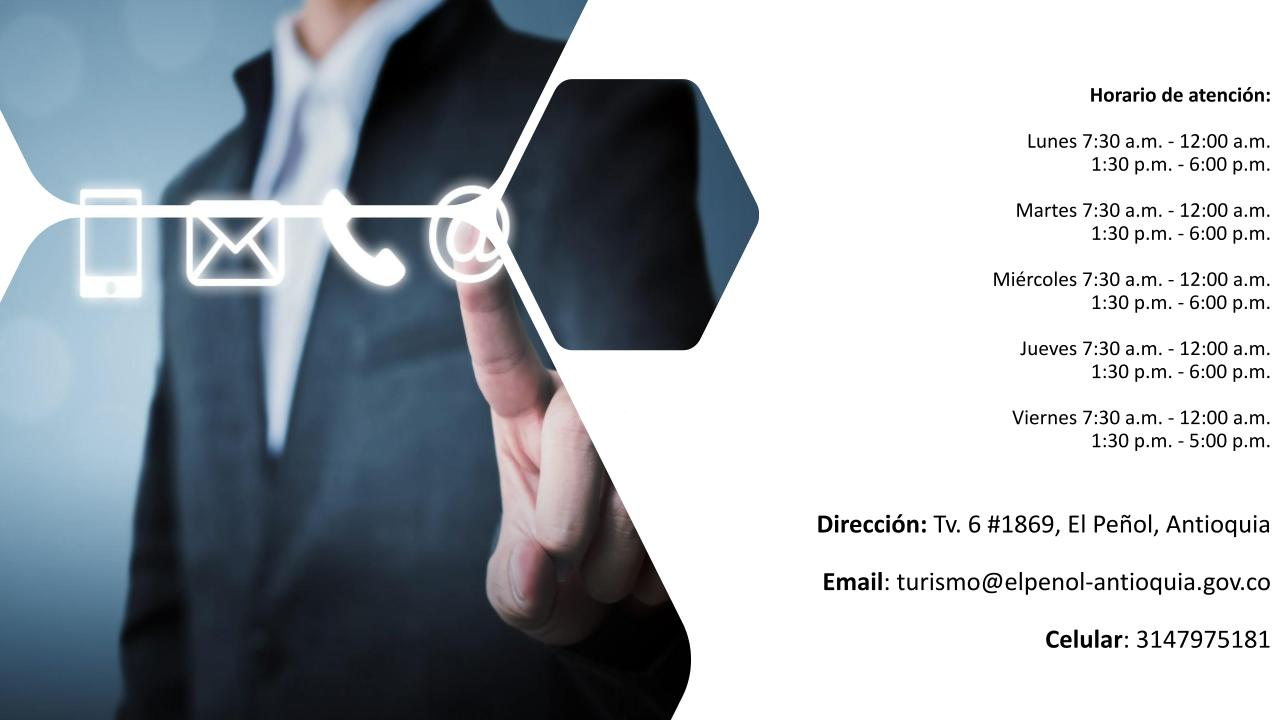
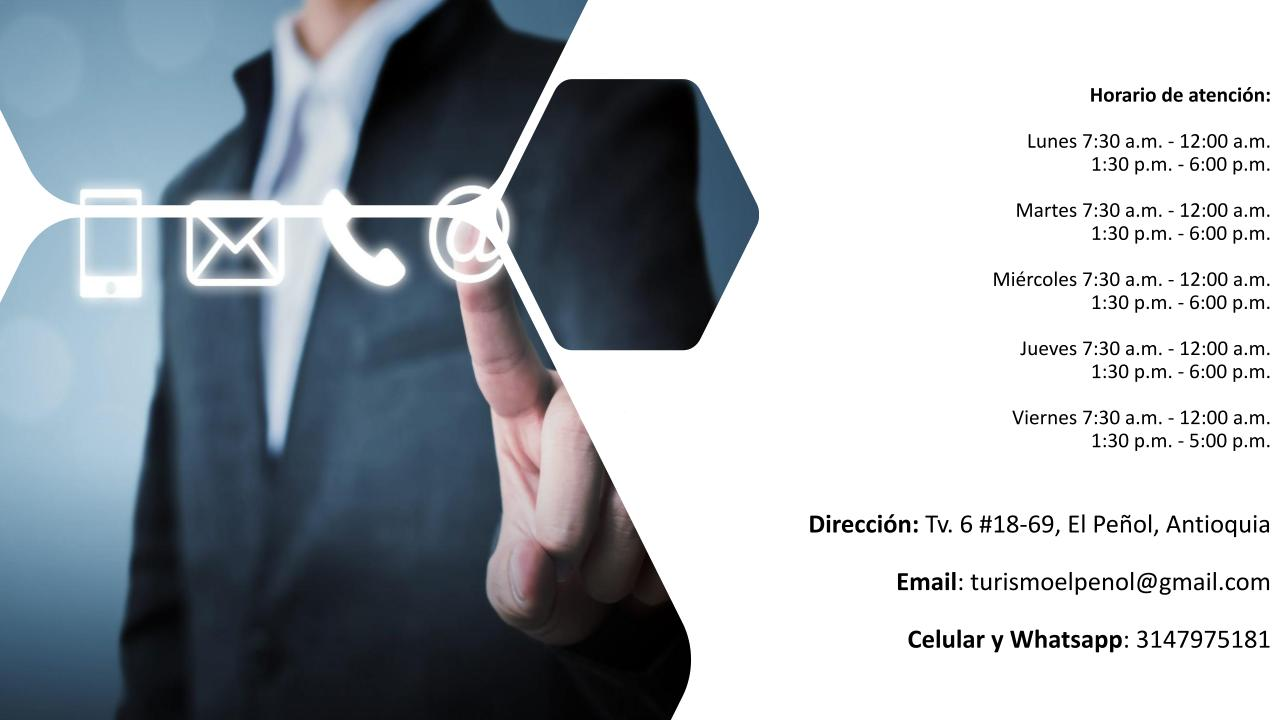
Add 11 de junion changes

Changed region(s): [[0.625, 0.7944, 1.0, 0.825], [0.625, 0.7028, 0.8125, 0.7639], [0.7188, 0.8556, 0.875, 0.9167]]

diff --git a/src/app/pages/capacitaciones/capacitaciones-detalles/capacitaciones-detalles.component.html b/src/app/pages/capacitaciones/capacitaciones-detalles/capacitaciones-detalles.component.html
@@ -12,26 +12,28 @@
 
 <p></p>
 
-<div class="card">
-    <div class="card-body">
-        <ul class="list-group list-group-flush">
-            <li class="list-group-item"><b>Nombre:</b> {{capacitacion.name}}</li>
-            <li class="list-group-item"><b>Descripción:</b> {{capacitacion.description}}</li>
-            <li class="list-group-item"><b>Objetivo:</b> {{capacitacion.objetivo}}</li>
-            <li class="list-group-item"><b>Dirigido:</b> {{capacitacion.dirigido}}</li>
-            <li class="list-group-item"><b>Contenido:</b> {{capacitacion.contenido}}</li>
-            <li class="list-group-item"><b>Requisitos:</b> {{capacitacion.requisitos}}</li>
-            <li class="list-group-item"><b>Facilitador:</b> {{capacitacion.facilitador}}</li>
-            <li class="list-group-item"><b>Inscripciones hasta :
-                </b>{{setFechaVencimientoInscripciones(capacitacion.dateFinish) |
-                date:'dd/MM/yyyy HH:mm'}}</li>
-            <li class="list-group-item"><b>Inicia:</b> {{capacitacion.dateFinish |
-                date:'dd/MM/yyyy HH:mm'}}</li>
-            <li class="list-group-item"><b>Categoría:</b> {{capacitacion.categoria}}</li>
-            <li class="list-group-item"><b>Modalidad:</b> {{capacitacion.modalidad}}</li>
-            <li class="list-group-item"><b>Contactos de información:</b> {{capacitacion.contactos}}</li>
-            <li class="list-group-item"><b>Lugar:</b> {{capacitacion.lugar}}</li>
-            <li class="list-group-item"><b>Cupos:</b> {{capacitacion.cupos}}</li>
-        </ul>
+<div class="col d-flex justify-content-center">
+    <div class="card">
+        <div class="card-body">
+            <ul class="list-group list-group-flush">
+                <li class="list-group-item"><b>Nombre:</b> {{capacitacion.name}}</li>
+                <li class="list-group-item"><b>Descripción:</b> {{capacitacion.description}}</li>
+                <li class="list-group-item"><b>Objetivo:</b> {{capacitacion.objetivo}}</li>
+                <li class="list-group-item"><b>Dirigido:</b> {{capacitacion.dirigido}}</li>
+                <li class="list-group-item"><b>Contenido:</b> {{capacitacion.contenido}}</li>
+                <li class="list-group-item"><b>Requisitos:</b> {{capacitacion.requisitos}}</li>
+                <li class="list-group-item"><b>Facilitador:</b> {{capacitacion.facilitador}}</li>
+                <li class="list-group-item"><b>Inscripciones hasta :
+                    </b>{{setFechaVencimientoInscripciones(capacitacion.dateFinish) |
+                    date:'dd/MM/yyyy HH:mm'}}</li>
+                <li class="list-group-item"><b>Inicia:</b> {{capacitacion.dateFinish |
+                    date:'dd/MM/yyyy HH:mm'}}</li>
+                <li class="list-group-item"><b>Categoría:</b> {{capacitacion.categoria}}</li>
+                <li class="list-group-item"><b>Modalidad:</b> {{capacitacion.modalidad}}</li>
+                <li class="list-group-item"><b>Contactos de información:</b> {{capacitacion.contactos}}</li>
+                <li class="list-group-item"><b>Lugar:</b> {{capacitacion.lugar}}</li>
+                <li class="list-group-item"><b>Cupos:</b> {{capacitacion.cupos}}</li>
+            </ul>
+        </div>
     </div>
 </div>

diff --git a/src/app/pages/inicio/menu-cards/menu-cards.component.html b/src/app/pages/inicio/menu-cards/menu-cards.component.html
@@ -146,6 +146,31 @@
                 </div>
             </div>
             <!-- ./Team member -->
+            <div class="col-xs-12 col-sm-6 col-md-4">
+                <div class="image-flip">
+                    <div class="mainflip flip-0">
+                        <div class="frontside">
+                            <div class="card">
+                                <div class="card-body text-center mt-4">
+                                    <h4 class="card-text"><b>Aliados</b></h4>
+                                </div>
+                            </div>
+                        </div>
+                        <div class="backside">
+                            <div class="card">
+                                <div class="card-body text-center mt-4">
+                                    <p>En este enlace, puede ver nuestros aliados y las empresas vinculadas a este
+                                        proyecto.</p>
+                                    <div style="text-align:center">
+                                        <button type="button" class="btn btn-primary" routerLink="/aliados">Click
+                                            aquí</button>
+                                    </div>
+                                </div>
+                            </div>
+                        </div>
+                    </div>
+                </div>
+            </div>
 
         </div>
     </div>

diff --git a/src/app/enums/categorias.ts b/src/app/enums/categorias.ts
@@ -3,16 +3,11 @@ export enum Categorias {
     Abogado = "Abogado",
     Auditoria = "Auditor",
     Asesor = "Asesor Comercial",
-    Administracion = "Administrador",
     Almacen = "Almacén / Logística",
     Atencion = "Atención al Cliente",
     Agronomo = "Agrónomo",
     Arquitectura = "Arquitectura y afines",
     Artes = "Artes plásticas, visuales y afines",
-    Ebanistería = "Ebanistería / Carpintería",
-    Educacion = "Educación / Docencia",
-    Estelista = "Estelista / Belleza y afines",
-    Economia = "Economía",
     Comunicador = "Comunicador Social / Periodismo",
     Comercio = "Comercio Exterior",
     Construccion = "Construcción y obra",
@@ -25,6 +20,10 @@ export enum Categorias {
     Direccion = "Dirección / Gerencia",
     Desarrollador = "Desarrollador / a",
     Diseno_modas = "Diseño de Modas",
+    Ebanistería = "Ebanistería / Carpintería",
+    Educacion = "Educación / Docencia",
+    Estelista = "Estelista / Belleza y afines",
+    Economia = "Economía",
     Ejecutivo = "Ejecutivo / Comercial",
     Electricidad = "Electricidad / Electrónica",
     Guarda = "Guarda de Seguridad",

diff --git a/src/app/enums/professions.ts b/src/app/enums/professions.ts
@@ -3,16 +3,11 @@ export enum Professions {
     Abogado = "Abogado",
     Auditoria = "Auditor",
     Asesor = "Asesor Comercial",
-    Administracion = "Administrador",
     Almacen = "Almacén / Logística",
     Atencion = "Atención al Cliente",
     Agronomo = "Agrónomo",
     Arquitectura = "Arquitecto",
     Artes = "Artista plástico, visual y afines",
-    Ebanistería = "Ebanista / Carpintero",
-    Educacion = "Educador / Docente",
-    Estelista = "Estelista / Belleza y afines",
-    Economia = "Economista",
     Comunicador = "Comunicador Social / Periodista",
     Comercio = "Comercializador Internacional",
     Construccion = "Constructor",
@@ -25,6 +20,10 @@ export enum Professions {
     Direccion = "Director / Gerente",
     Desarrollador = "Desarrollador / a",
     Diseno_modas = "Diseñador de Modas",
+    Ebanistería = "Ebanista / Carpintero",
+    Educacion = "Educador / Docente",
+    Estelista = "Estelista / Belleza y afines",
+    Economia = "Economista",
     Ejecutivo = "Ejecutivo / Comercial",
     Electricidad = "Electricista / Electrónico",
     Guarda = "Guardia de Seguridad",

diff --git a/src/app/pages/ofertas-laborales/ofertas-laborales.component.ts b/src/app/pages/ofertas-laborales/ofertas-laborales.component.ts
@@ -17,6 +17,7 @@ export class OfertasLaboralesComponent implements OnInit {
   modalRef: MdbModalRef<HojasDeVidaModalComponent>;
   modalRefTerminos: MdbModalRef<TerminosCondicionesComponent>;
   filterJob = '';
+  idJobOtro = '68cdcc29-09ea-4ac4-9f04-737a9b7a0ca6';
   @Output() buttonClicked = new EventEmitter();
 
   constructor(private modalService: MdbModalService, protected jobService: JobsService) {
@@ -41,6 +42,7 @@ export class OfertasLaboralesComponent implements OnInit {
           this.jobs.sort((a, b) => {
             return new Date(b.dateInit).getTime() - new Date(a.dateInit).getTime()
           });
+          this.jobs = this.jobs.filter(obj => obj.state && obj.idJob !== this.idJobOtro);
         },
         (error) => {
           swal.fire('Error interno en el servidor', 'Comuníquese con nosotros para informar el problema', 'error')

diff --git a/src/app/footer/footer.component.html b/src/app/footer/footer.component.html
@@ -11,10 +11,11 @@
 
                     <h1>Sede principal</h1>
                     <p></p>
-                    <p>Tv. 6 #1869, El Peñol, Antioquia</p>
+                    <p>Tv. 6 #18-69, El Peñol, Antioquia</p>
                     <p>Lunes a jueves de 7:30 a.m. a 12:00 a.m. - 1:30 p.m. a 6:00 p.m.</p>
                     <p>Viernes de 7:30 a.m. a 12:00 a.m. - 1:30 p.m. a 5:00 p.m.</p>
-
+                    <p>Correo: turismoelpenol@gmail.com</p>
+                    <p>Celular y Whatsapp: 3147975181</p>
                 </div>
 
                 <!--Grid column-->

diff --git a/src/app/header/header.component.html b/src/app/header/header.component.html
@@ -35,6 +35,10 @@
                                 <a class="nav-link" href="#" a routerLink="/contactenos"
                                     routerLinkActive="active">Contáctanos</a>
                             </li>
+                            <li class="nav-item">
+                                <a class="nav-link" href="#" a routerLink="/aliados"
+                                    routerLinkActive="active">Aliados</a>
+                            </li>
                         </ul>
                     </div>
                 </div>

diff --git a/src/app/app.module.ts b/src/app/app.module.ts
@@ -40,7 +40,8 @@ const routes: Routes = [
   { path: 'hojadevida', component: HojaDeVidaComponent },
   { path: 'description-job/:idJob', component: OfertasLaboralesDetallesComponent },
   { path: 'capacitaciones', component: CapacitacionesComponent },
-  { path: 'capacitacion/:idCapacitacion', component: CapacitacionesDetallesComponent }
+  { path: 'capacitacion/:idCapacitacion', component: CapacitacionesDetallesComponent },
+  { path: 'aliados', component: AliadosComponent }
 ];
 
 @NgModule({

diff --git a/src/app/pages/ofertas-laborales/ofertas-laborales.component.html b/src/app/pages/ofertas-laborales/ofertas-laborales.component.html
@@ -18,7 +18,7 @@
         <div class="row">
             <!-- Team member -->
             <div class="col-xs-12 col-sm-6 col-md-4" *ngFor="let job of jobs | filterOfertas:filterJob">
-                <div class="image-flip" *ngIf="job.state">
+                <div class="image-flip">
                     <div class="mainflip flip-0">
                         <div class="frontside">
                             <div class="card">

diff --git a/src/app/enums/nivel-academico.ts b/src/app/enums/nivel-academico.ts
@@ -1,10 +1,10 @@
 export enum NivelAcademico {
     Escuela = "Escuela",
     Bachillerato = "Bachillerato",
-    Pregrado = "Pregrado",
     Tecnico = "Técnico",
     Tecnologo = "Tecnólogo",
+    Profesional = "Profesional",
     Especialista = "Especialista",
-    Posgrado = "Posgrado",
+    Maestria = "Maestría",
     Doctorado = "Doctorado"
 }

diff --git a/src/app/pages/inicio/inicio.component.html b/src/app/pages/inicio/inicio.component.html
@@ -1,4 +1,2 @@
 <img src="assets/bienvenido.jpg" alt="Angular Responsive Image Component Logo">
 <app-menu-cards></app-menu-cards>
-<app-capacitaciones-inicio></app-capacitaciones-inicio>
-<app-aliados></app-aliados>
